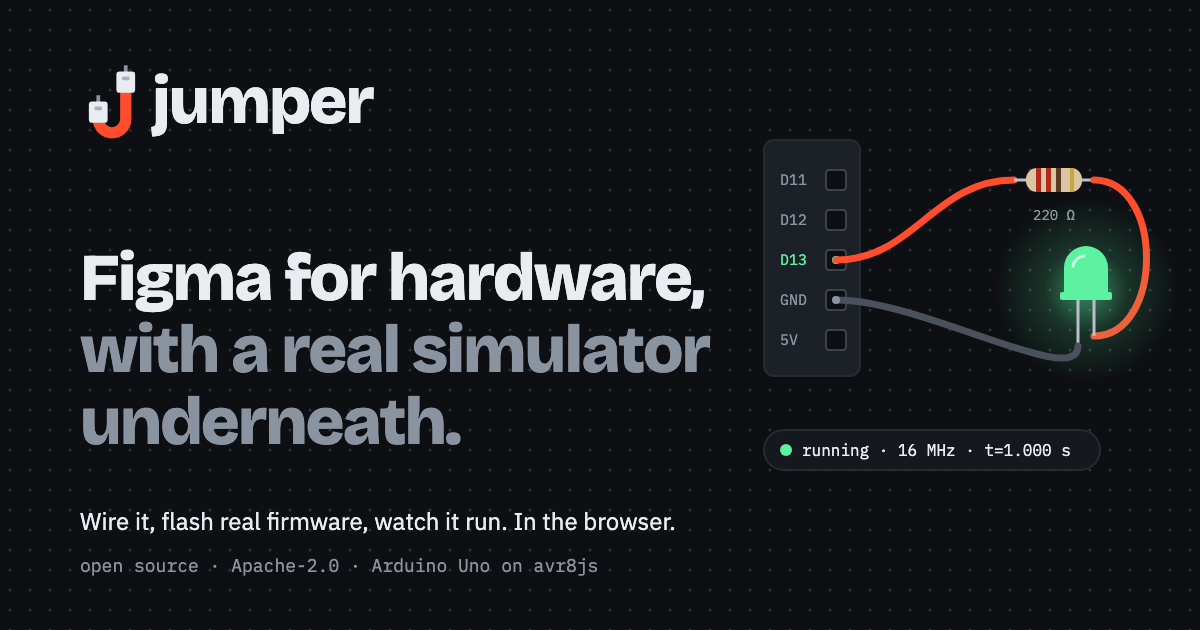
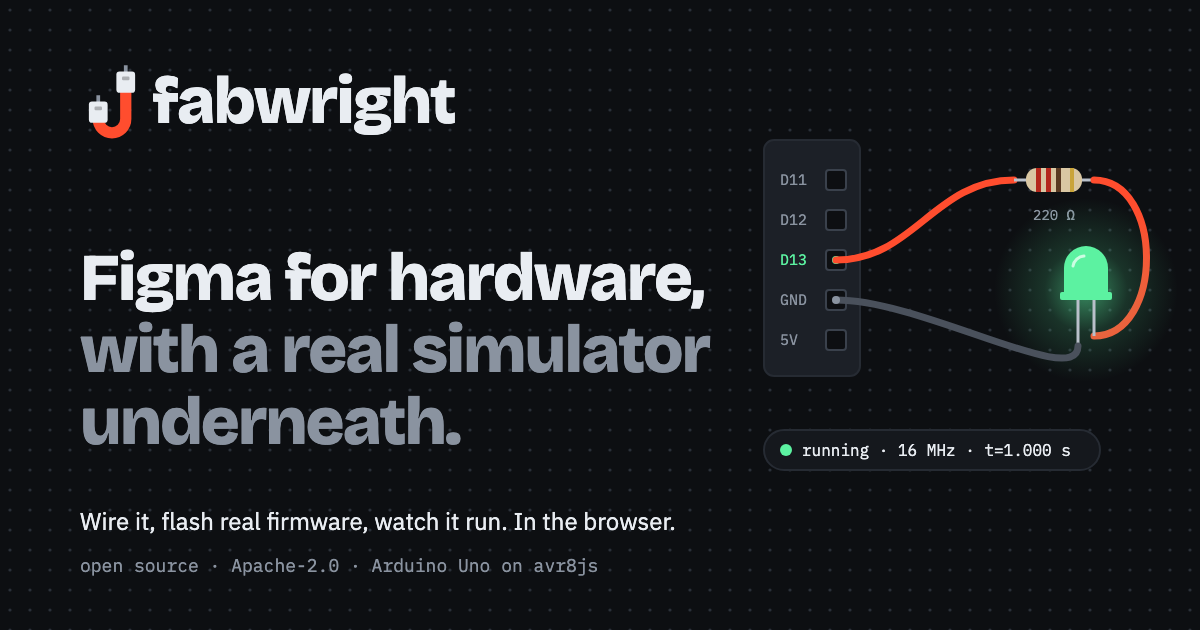
docs(rename): migrating from Jumper, decision 0008, the brand under its new name
- docs/migrating-from-jumper.md: every old name that still works, what to do
  to move (project file, ~/.jumper, MCP clients, env, relay firmware, Docker
  images), and the electronics "jumper" that stays.
- docs/decisions/0008: why Fabwright, what was renamed, the one lookup rule
  for old files and folders, and what is kept.
- 0001 keeps its original naming paragraph, with a pointer to 0008.
- brand: the name explained; the mark is still a jumper wire (a mark for the
  new name is open); the wordmark is wider for "fabwright" and the social card
  PNG is re-rendered with the brand fonts.
- README and NOTICE say "formerly Jumper"; third-party notices unchanged.

Changed region(s): [[0.1233, 0.1206, 0.4008, 0.2111]]

diff --git a/apps/web/src/components/Logo.tsx b/apps/web/src/components/Logo.tsx
@@ -1,4 +1,4 @@
-/** Fabwright mark: a jumper wire bent into a "J", a dupont pin at each tip. `mono` draws it in the text color only. */
+/** Fabwright mark: a jumper wire bent into a hook, a dupont pin at each tip. `mono` draws it in the text color only. */
 export function LogoMark({ size = 28, mono = false }: { size?: number; mono?: boolean }) {
   const wire = mono ? "var(--fg)" : "var(--wire)";
   return (

diff --git a/docs/migrating-from-jumper.md b/docs/migrating-from-jumper.md
@@ -1,0 +1,56 @@
+# Migrating from Jumper
+
+Fabwright was called **Jumper** until 2026-11-17 ([decision 0008](decisions/0008-rename-to-fabwright.md)).
+Everything was renamed: the CLI, the MCP server and its tools, the packages, the project file, the
+environment variables and the firmware shims. Projects, scripts and firmware made before the rename
+keep working without changes. This page lists what still reads the old names, and how to move to the
+new ones when you want to.
+
+## What keeps working
+
+| Before | Now | What happens to the old one |
+| --- | --- | --- |
+| `jumper` command | `fabwright` | `jumper` still works: it prints one line on stderr ("this command is now called fabwright") and runs `fabwright` with the same arguments. stdout is unchanged, so `--json` and MCP over stdio are not affected. |
+| `jumper.json` | `fabwright.json` | A folder with only `jumper.json` opens as a project. Fabwright keeps reading and writing `jumper.json` there (no second file appears next to it). New projects get `fabwright.json`. |
+| `"format": "jumper/1"` | `"fabwright/1"` | Read as the same format. The next save writes `"fabwright/1"`. |
+| `<project>/.jumper/` | `.fabwright/` | Used when it is the folder there (action log, history, thumbnails, media, run audio). New projects get `.fabwright/`. |
+| `~/.jumper/` | `~/.fabwright/` | Used when `~/.fabwright` does not exist, so the toolchains and emulators you installed (about 10 GB) keep working without `fabwright setup`. |
+| `JUMPER_*` variables | `FABWRIGHT_*` | Each `JUMPER_<NAME>` is used when `FABWRIGHT_<NAME>` is not set. When both are set, `FABWRIGHT_<NAME>` wins. |
+| MCP server `jumper`, tools `mcp__jumper__*` | `fabwright`, `mcp__fabwright__*` | Re-add the server under its new name (below). An MCP config that runs `apps/cli/bin/jumper.mjs mcp` keeps working through the alias, but its tools are still listed under the name you gave the server. |
+| `JumperRelay.h`, `jumper_device.h`, `jumperRelayUrl()`, `JUMPER_TOKEN_HEADER` | `FabwrightRelay.h`, `fabwright_device.h`, `fabwrightRelayUrl()`, `FABWRIGHT_TOKEN_HEADER` | A sketch that includes `JumperRelay.h` still builds, in the simulator and for the device: Fabwright adds a forwarding `JumperRelay.h` when the folder has none, and the simulator also writes a `jumper_device.h` for an old copy of the header. `FabwrightRelay.h` reads `jumper_device.h` when there is no `fabwright_device.h`. Your own `jumper_device.h` is never compiled by Fabwright's builds, like `fabwright_device.h`. |
+| `JumperSim.h`, `JumperSleep.h`, `JumperCamera.h`, `jumper_eth.h` | `FabwrightSim.h`, `FabwrightSleep.h`, `FabwrightCamera.h`, `fabwright_eth.h` | Thin forwarding headers under the old names (with the old function names as macros). |
+| `#ifdef JUMPER_SIM` | `FABWRIGHT_SIM` | ESP32 simulation builds define both. |
+| Wi-Fi `JumperNet`, hosts `ai.jumper`, `relay.sandbox.jumper` | `FabwrightNet`, `ai.fabwright`, `relay.sandbox.fabwright` | Firmware that joins `JumperNet` joins the default sandbox network, and the old host names resolve to the same sandbox hosts. |
+| Agent-made parts `"format": "jumper-part/1"` | `"fabwright-part/1"` | Read as the same format. |
+| `.claude/skills/jumper-hardware/`, AGENTS.md / CLAUDE.md "Written by Jumper" | `.claude/skills/fabwright-hardware/` | `fabwright skill install` (and `fabwright serve`) update files Jumper wrote, and remove the old skill folder when Jumper wrote it, so an agent does not load two guides. A file you edited by hand is left alone. |
+| Browser settings (`jumper.theme`, `jumper:kit:*`, …) | `fabwright.*`, `fabwright:*` | Copied to the new keys the first time the app opens. |
+| Deep-sleep line `[jumper:sleep]` | `[fabwright:sleep]` | Both are understood, so a firmware image built by an older version still sleeps and wakes. |
+
+## What to do yourself (when you want to)
+
+- **Rename a project file.** `git mv jumper.json fabwright.json` and `git mv .jumper .fabwright`
+  (or delete `.jumper` if you do not need its history). Both at once: Fabwright picks
+  `fabwright.json` and `.fabwright/` as soon as they exist.
+- **Your user folder.** `mv ~/.jumper ~/.fabwright` moves the installed toolchains, emulators and the
+  projects list in one step. Until then `~/.jumper` is used.
+- **MCP clients.** Remove the old server and add the new one, for example in Claude Code:
+  `claude mcp remove jumper && claude mcp add --transport http fabwright http://localhost:7780/mcp`.
+  Permission rules that name `mcp__jumper__*` need the new prefix `mcp__fabwright__*`. The Claude
+  Code plugin is now `plugins/fabwright` (skill `fabwright-hardware`).
+- **Environment.** Rename `JUMPER_*` to `FABWRIGHT_*` in your shell profile and CI.
+- **Firmware that uses the relay.** Change `#include "JumperRelay.h"` to `#include "FabwrightRelay.h"`
+  and the `jumper*` / `JUMPER_*` names to `fabwright*` / `FABWRIGHT_*`, then run
+  `fabwright relay device-header` (it writes `fabwright_device.h`) and delete the old
+  `jumper_device.h` and `JumperRelay.h` from the sketch folder.
+- **Docker images.** The images are now tagged `fabwright/…` (for example
+  `fabwright/qemu-esp:9.2.2-20260417-jb7`, `fabwright/arduino-esp32:3.3.12-r3`, `fabwright/renode:1.17.0-r1`).
+  With `FABWRIGHT_RUNTIME=docker`, run `fabwright setup` once to build them. Native runtimes (the
+  default on a Mac without Docker) need nothing.
+- **Local QEMU sources.** `FABWRIGHT_QEMU_SRC` still uses the spike repository's branch `jumper-jb7`
+  (`QEMU_SRC_BRANCH`): that branch lives outside this repository and keeps its name.
+
+## Not renamed on purpose
+
+"Jumper" as an electronics word is still there: jumper wires (the BOM's "Jumper wires (dupont)"),
+the L298N's `regulatorJumper` / `enaJumper` / `enbJumper` props, solder jumpers, address jumpers and
+the TTP223's A / B jumpers. Those are parts of real boards, not the product.

diff --git a/docs/decisions/0008-rename-to-fabwright.md b/docs/decisions/0008-rename-to-fabwright.md
@@ -1,0 +1,52 @@
+# 0008 — Jumper is now Fabwright
+
+Status: accepted · 2026-11-17
+
+## Decision
+
+The project is renamed from **Jumper** to **Fabwright**: "fab" for fabrication, "wright" for a maker
+(shipwright, wheelwright). It says what the project does (design a device, simulate it, and make it:
+case, kit, factory pack) instead of naming one part. The tagline stays: Figma for hardware, with a
+real simulator underneath. Open source, Apache-2.0, for people and for AI agents through MCP.
+
+Everything is renamed: the CLI (`fabwright`), the MCP server (`fabwright`, tools `mcp__fabwright__*`),
+the packages (`@fabwright/*`), the project file (`fabwright.json`, format `fabwright/1`) and state
+folder (`.fabwright/`), the user folder (`~/.fabwright`), the environment variables (`FABWRIGHT_*`),
+the Claude Code plugin and skill (`plugins/fabwright`, `fabwright-hardware`), the firmware shims
+(`FabwrightSim`, `FabwrightSleep`, `FabwrightCamera`, `FabwrightEth`, `FabwrightRelay.h`), the QEMU
+patches (`000N-fabwright-*.patch`, `hw/misc/fabwright_*`), the Renode models (`FabwrightBridge.cs`, …),
+the Docker images (`fabwright/…`) and the sandbox names (`FabwrightNet`, `ai.fabwright`,
+`relay.sandbox.fabwright`).
+
+## Compatibility
+
+Existing projects, scripts and firmware must keep working with no edits
+([migrating-from-jumper.md](../migrating-from-jumper.md) has the full list):
+
+- **One lookup rule** for files and folders (`packages/project-format/src/node.ts`): the new name when
+  it exists, else the old name when that exists, else the new name. So an old project keeps writing
+  its `jumper.json` and `.jumper/` (nothing appears or moves behind the person's back, and its git
+  history stays in one file), a new one gets `fabwright.json`, and `~/.jumper` (gigabytes of installed
+  toolchains) is used until `~/.fabwright` exists.
+- **Environment:** every `JUMPER_<NAME>` fills `FABWRIGHT_<NAME>` when that is unset, once, in each
+  entry point (`applyLegacyEnv`), so the rest of the code reads only the new names.
+- **Firmware:** forwarding headers under the old names, `JUMPER_SIM` defined next to `FABWRIGHT_SIM`,
+  the old sleep marker, SSID and host names accepted, and a person's `jumper_device.h` treated as the
+  secret it is (never compiled by Fabwright's builds).
+- **Commands:** `jumper` is an alias bin that says once, on stderr, that it is now `fabwright`.
+
+All of it is named in `packages/project-format/src/legacy.ts` (or next to the code that needs it, with a
+comment saying so), and tested in `packages/project-format/src/legacy.test.ts`,
+`packages/session/test/legacy-names.test.ts`, `apps/cli/test/legacy-alias.test.ts`,
+`services/runner/test/legacy-libraries.test.ts` and `apps/web/src/lib/legacyStorage.test.ts`.
+
+## Kept
+
+- "Jumper" as an electronics word: jumper wires, solder / address jumpers, the L298N's
+  `regulatorJumper` / `enaJumper` / `enbJumper`, the TTP223's A / B jumpers.
+- `QEMU_SRC_BRANCH = "jumper-jb7"`: a branch in the spike QEMU repository outside this one.
+- Committed firmware images that print the old name (`esp32c3_blink_io.merged.bin.gz` says
+  "hello from jumper esp32"), until they are rebuilt; their sources say so.
+- Paths of folders outside the repository in older notes (`jumper-evals/…`).
+- The mark: still a jumper wire with a dupont connector at each end. It was bent into the J of
+  Jumper; a mark for the new name is open.

diff --git a/brand/README.md b/brand/README.md
@@ -4,13 +4,13 @@
 
 ## The name
 
-**Fabwright** is named after the jumper wire, the one part every hardware project uses. It is the thing you grab to try an idea, and the thing you move when you change your mind. That is the job Fabwright wants to do: connect things quickly and cheaply, so you can try them before committing.
+**Fabwright**: "fab" for fabrication, "wright" for a maker, as in shipwright or wheelwright. Fabwright is where you design a device, run its real firmware in a simulator, and then make it: the case, the kit, the factory files. It was called Jumper until 2026-11-17 ([decision 0008](../docs/decisions/0008-rename-to-fabwright.md)).
 
-The name also works as a verb in a CLI (`fabwright run`, `fabwright test`). It is short, and it avoids the usual "lab", "studio" and "hub" names.
+The CLI is `fabwright` (`fabwright run`, `fabwright test`). The name avoids the usual "lab", "studio" and "hub" names.
 
 ## Logo
 
-The mark is a jumper wire bent into a **J**. Each end has a dupont connector: a housing, a latch window, and a metal pin. The red wire is the brand's main accent.
+The mark is a jumper wire, the one part every hardware project uses, bent into a hook. Each end has a dupont connector: a housing, a latch window, and a metal pin. The red wire is the brand's main accent. (The hook is the J of the project's first name, Jumper; a mark for Fabwright is open.)
 
 | File | Use |
 | --- | --- |
@@ -25,7 +25,7 @@ The mark is a jumper wire bent into a **J**. Each end has a dupont connector: a 
 - Leave clear space around the mark equal to the width of one connector housing (about a quarter of the mark's width).
 - The smallest size for `logo.svg` is 16 px. Below 24 px, prefer `favicon.svg`.
 - Keep the wire red (`--wire`). The housings use the text color of the theme: light housings on dark backgrounds, dark housings on light ones, like real dupont connectors. The pins use `--muted`.
-- Don't rotate, outline, add shadows, gradients or glows, or redraw the J in a typeface.
+- Don't rotate, outline, add shadows, gradients or glows, or redraw the hook in a typeface.
 - The wordmark is always lower case: "fabwright". In running text, write **Fabwright**.
 - `wordmark.svg` sets the word as live text in Bricolage Grotesque, with IBM Plex Sans and system fonts as fallbacks. If you export it for print or for use outside the web, convert the text to outlines first.
 

diff --git a/README.md b/README.md
@@ -4,6 +4,8 @@
 
 <p align="center"><strong>Figma for hardware, with a real simulator underneath.</strong></p>
 
+<p align="center"><sub>Formerly <strong>Jumper</strong>. Old projects, scripts and firmware keep working: see <a href="docs/migrating-from-jumper.md">migrating from Jumper</a>.</sub></p>
+
 Fabwright is an open-source browser sandbox for electronics. You place parts on a canvas, wire their pins together, and run the real compiled firmware on an emulated microcontroller. The LED on the canvas lights up because the emulated ATmega328P set its pin high and a small circuit solver pushed current through the resistor and the LED. It is not a drawing of what should happen. Anything a person can do on the canvas, an AI agent will be able to do through the same tools.
 
 **The promise, stated honestly.** If firmware crashes on real hardware, it should also crash in Fabwright. If it runs in Fabwright, it should run on the board, as far as the simulation can tell. Every part says what it simulates exactly, what it only approximates and what it does not simulate at all (see [fidelity](docs/fidelity.md)). Fabwright does not hide those gaps.

diff --git a/docs/README.md b/docs/README.md
@@ -6,6 +6,7 @@
 - [Architecture](architecture.md): the packages, and how data moves from the canvas to the simulator and back.
 - [Fidelity](fidelity.md): what the simulator can promise. Exact, Behavioral and Stub.
 - [Native runtime](native-runtime.md): build and run firmware without Docker (`fabwright setup`), and how Fabwright picks Docker or native.
+- [Migrating from Jumper](migrating-from-jumper.md): Fabwright was called Jumper until 2026-11-17; what still reads the old names, and how to move.
 
 ## For agents
 
